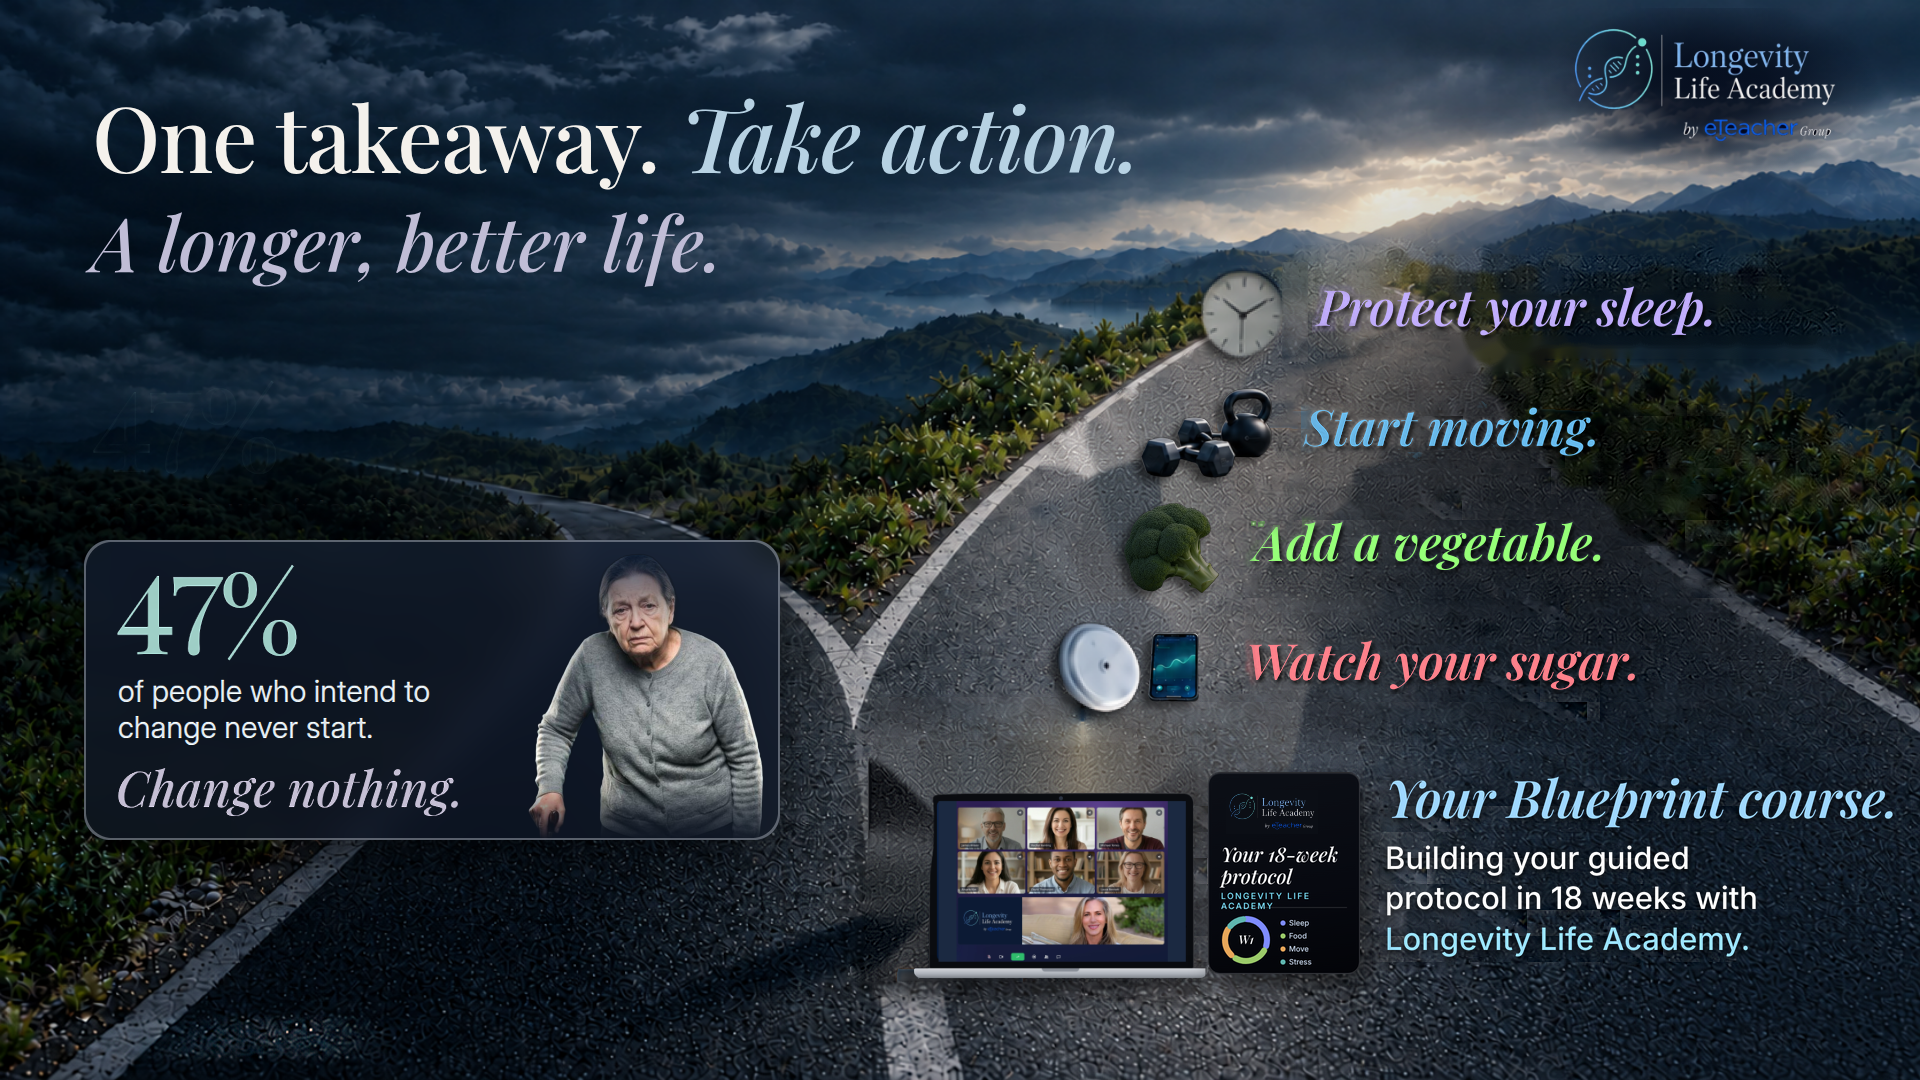
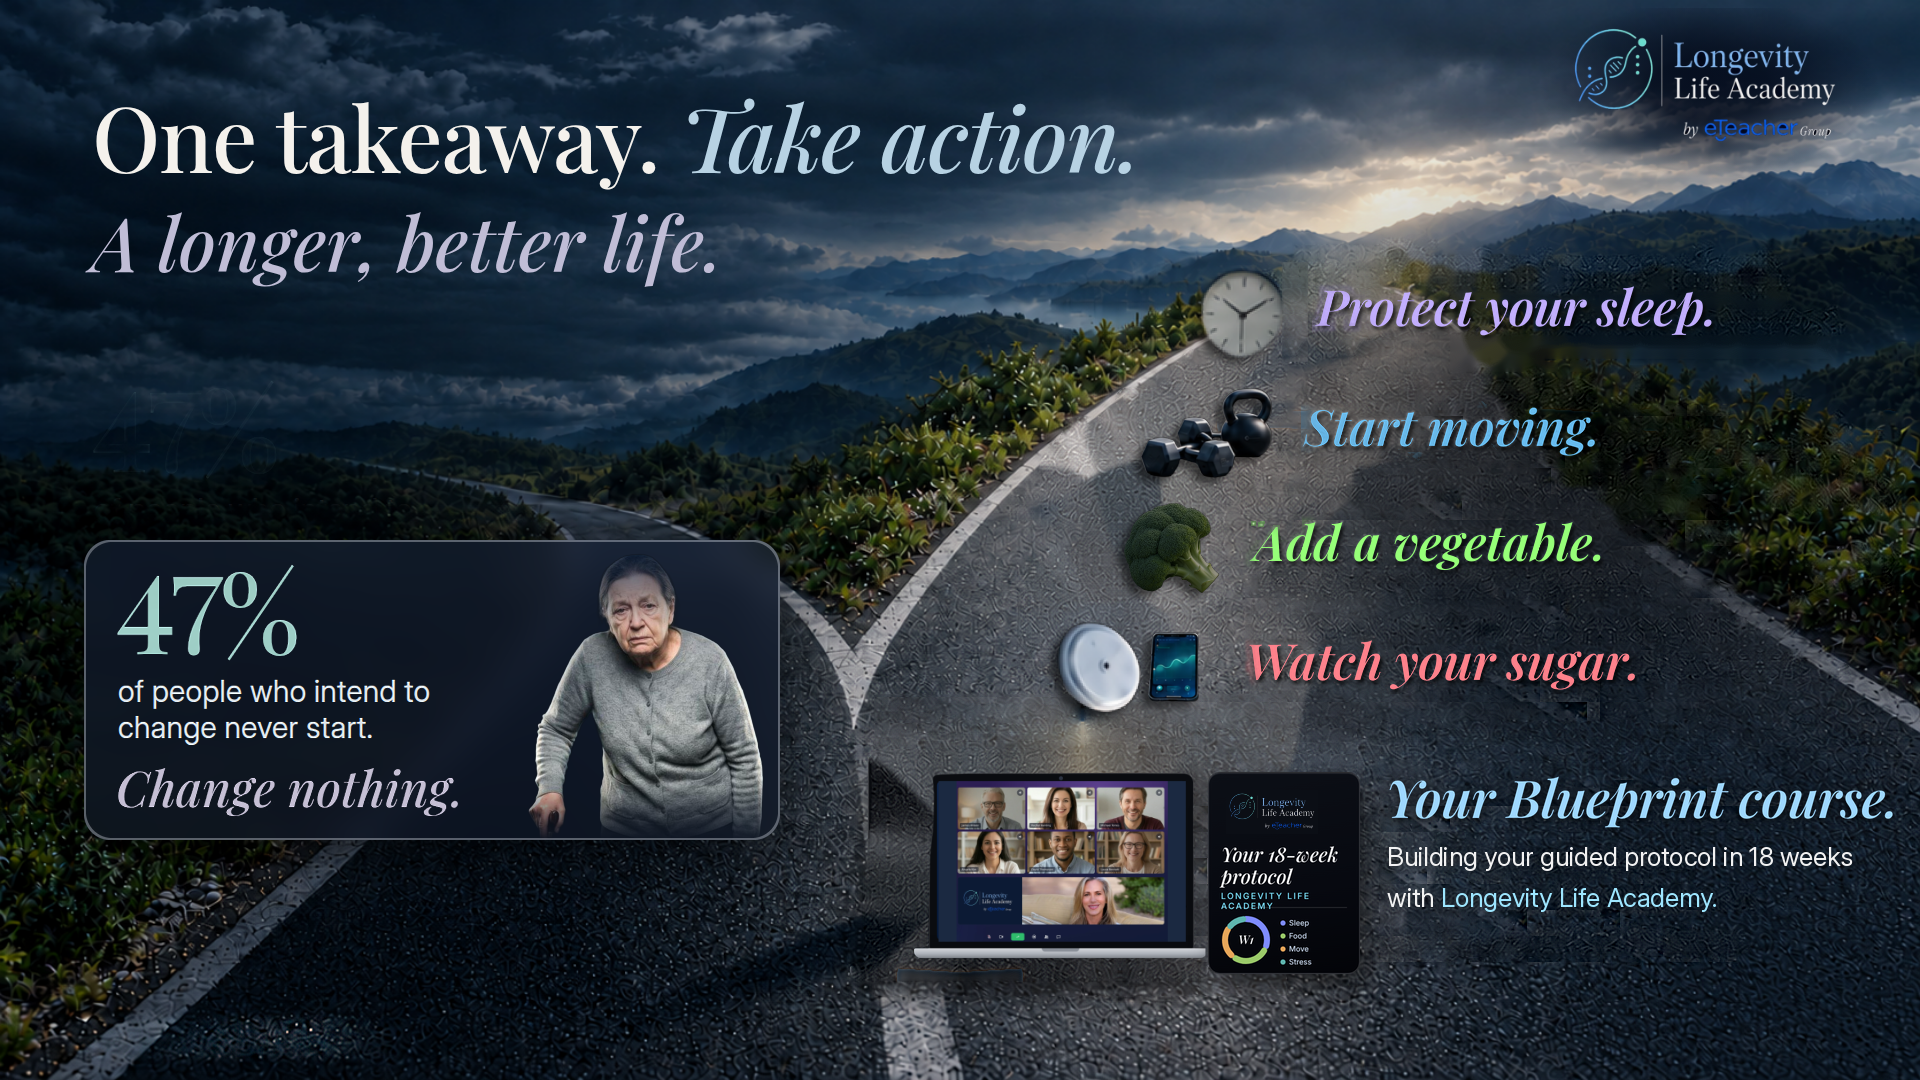
n25 fork: Blueprint sub-text 2 lines (Inter 26), laptop up 20px bottom-aligned; z17/y30

Changed region(s): [[0.4688, 0.7028, 0.625, 0.9167], [0.7188, 0.7639, 0.9375, 0.8861], [0.9375, 0.7944, 0.9688, 0.825]]

diff --git a/slide-canvas/v46/corrections.js b/slide-canvas/v46/corrections.js
@@ -78,7 +78,7 @@ const sxRisks=newSlot('sx-risks','assets/n22-risks.jpg?v=v46y22','The four risks
 const sxBz=newSlot('sx-bz','assets/n23-bluezones.jpg?v=v46y22','The Blue Zones.','Added from the Round 13 page (slide 07, The Blue Zones). Placed before the menopause slide.','x2');
 const sxBr=newSlot('sx-brulee','assets/n24-brulee.jpg?v=v46y22','Crème brûlée and wrinkles.','Added from the Round 13 page (slide 13, Crème brûlée and wrinkles). Placed after the sugar slide, before Same age.','x3');
 const sxReligion=newSlot('sx-religion','assets/n26-religion.jpg?v=v46y22','Take the religion out of your diet.','New statement slide: only the sentence, large. Carries the religion part of the old plate-slide script; the pillars follow, then the plate.','x5');
-const sxFork=newSlot('sx-fork','assets/n25-fork.png?v=v46z16','One takeaway. Take action. (closing)','Closing slide: exactly the Julie deck slide 22 at commit f220cbd, unchanged (image file additional-take-action-20261026.png). It ends the deck.','x4');
+const sxFork=newSlot('sx-fork','assets/n25-fork.png?v=v46z17','One takeaway. Take action. (closing)','Closing slide: exactly the Julie deck slide 22 at commit f220cbd, unchanged (image file additional-take-action-20261026.png). It ends the deck.','x4');
 const sxSugar=newSlot('sx-sugar','assets/n28-sugar-limit.jpg?v=v46y22','Six teaspoons: the daily limit for added sugar.','New slide after the crème brûlée. Script it covers (quoted): “Here’s where the data points to a hard ceiling: keep your added sugar to under twenty-five grams a day. That’s roughly six teaspoons.” Then: “birthday cake is too precious of a tradition to scrap for watermelon cake. Sorry not gonna happen. But in it’s rightful place - once in a blue moon - it’s ok.” Then the CGM: “every student in the Longevity Life Academy will wear a CGM for two weeks.” Time 0:30, taken from the brûlée slide (now 0:30).','x6');
 const sxMwB=newSlot('sx-mw-julie','assets/n27-movement-week-julie.jpg?v=v46y22','Julie Gibson Clark’s Movement Week.','Movement week (option 2), Claude B, Protocol, slide 13. Marked V2. Julie to update. The full protocol follows after the stress slide.','x7');
 // The user's original slide references define the order, not inferred numbering.

diff --git a/slide-canvas/v46/index.html b/slide-canvas/v46/index.html
@@ -65,7 +65,7 @@ textarea:focus{outline:none;border-color:#006EFF;box-shadow:0 0 0 3px rgba(0,110
 <button id="send" class="btn p" onclick="sendAll()">Send my comments</button>
 <div id="lb" onclick="this.classList.remove('on')"><img id="lbimg" src="" alt=""><div class="x">Close</div></div>
 <div id="play"><img id="pimg" src="" alt=""><div class="x" onclick="stopPlay()">Close, Esc</div><div class="c" id="pc"></div></div>
-<script src="corrections.js?v=20261027-v46y29"></script>
+<script src="corrections.js?v=20261027-v46y30"></script>
 <script>
 const P=allSlots.map(s=>s.querySelector('img.main').getAttribute('src'));let k=0;
 const T=[...document.querySelectorAll('textarea')];

diff --git a/slide-canvas/fork-lab/index.html b/slide-canvas/fork-lab/index.html
@@ -1,4 +1,4 @@
 <!doctype html><html><head><meta charset="utf-8"><title>Fork lab – slide 26</title>
 <style>body{margin:0;background:#0b1220;color:#dfe7f3;font:15px/1.4 Inter,system-ui,sans-serif}h2{font-weight:500;margin:28px 24px 10px}img{display:block;width:calc(100% - 48px);max-width:1920px;margin:0 24px 24px;border-radius:6px}</style></head>
 <body><h2>Original</h2><img src="original-n25-fork.png?v=1" alt="Original">
-<h2>New</h2><img src="new-n25-fork.png?v=18" alt="New"></body></html>
+<h2>New</h2><img src="new-n25-fork.png?v=19" alt="New"></body></html>

diff --git a/slide-canvas/fork-lab/src/b10.py b/slide-canvas/fork-lab/src/b10.py
@@ -1,0 +1,24 @@
+import cv2,numpy as np
+from PIL import Image,ImageDraw,ImageFont
+R=cv2.imread('new.png').astype(np.float32);H,W=R.shape[:2]
+B=cv2.imread('base.png').astype(np.float32);hf=B[560:700,1300:1460];hf=hf-cv2.GaussianBlur(hf,(0,0),3)
+hf2=np.concatenate([hf,hf[::-1]],0);hf2=np.concatenate([hf2,hf2[:,::-1]],1);tile=np.tile(hf2,(H//280+1,W//320+1,1))[:H,:W]
+sub=R[838:965,1380:1905];m=((sub.max(2)-sub.min(2)>40)|(sub.mean(2)>130)).astype(np.uint8)*255
+M=np.zeros((H,W),np.uint8);M[838:965,1380:1905]=cv2.dilate(m,np.ones((7,7),np.uint8))
+inp=cv2.inpaint(np.clip(R,0,255).astype(np.uint8),M,9,cv2.INPAINT_TELEA).astype(np.float32)+tile*0.8
+mf=cv2.GaussianBlur(M.astype(np.float32)/255,(0,0),1.5)[...,None];R=R*(1-mf)+inp*mf
+F='/usr/share/fonts/truetype/sand-box/google/Inter/Inter-VariableFont_opsz,wght.ttf'
+l1='Building your guided protocol in 18 weeks';a='with ';b='Longevity Life Academy.'
+def f(s):
+  ft=ImageFont.truetype(F,s);
+  try: ft.set_variation_by_axes([32,400])
+  except Exception: pass
+  return ft
+s=32
+while f(s).getlength(l1)>1860-1387: s-=0.5
+ft=f(s);print('size',s,f(32).getlength(l1))
+im=Image.fromarray(cv2.cvtColor(np.clip(R,0,255).astype(np.uint8),cv2.COLOR_BGR2RGB));d=ImageDraw.Draw(im)
+asc=ft.getbbox('B')[1];y1=847-asc;y2=y1+41
+d.text((1387,y1),l1,font=ft,fill=(242,242,242));d.text((1387,y2),a,font=ft,fill=(242,242,242))
+d.text((1387+ft.getlength(a),y2),b,font=ft,fill=(158,230,255))
+o=cv2.cvtColor(np.array(im),cv2.COLOR_RGB2BGR);cv2.imwrite('new.png',o);cv2.imwrite('z34.png',o[720:1080,820:1920])

diff --git a/slide-canvas/fork-lab/src/b9.py b/slide-canvas/fork-lab/src/b9.py
@@ -14,7 +14,7 @@ mf=cv2.GaussianBlur(m.astype(np.float32)/255,(0,0),1.5)[...,None];R=R*(1-mf)+inp
 sc=0.82
 L2=cv2.resize(lap,(int(w*sc),int(h*sc)),interpolation=cv2.INTER_AREA)
 # anchor bottom-right of laptop bbox
-nx=int(round(ox+rgt-rgt*sc));ny=int(round(oy+bot-bot*sc))
+nx=int(round(ox+rgt-rgt*sc));ny=int(round(oy+bot-bot*sc))-20
 hh,ww=L2.shape[:2];A=L2[...,3:]/255
 R[ny:ny+hh,nx:nx+ww]=R[ny:ny+hh,nx:nx+ww]*(1-A)+L2[...,:3]*A
 print('laptop new bbox',nx+int(lft*sc),ny+int(top*sc),nx+int(rgt*sc),ny+int(bot*sc))
